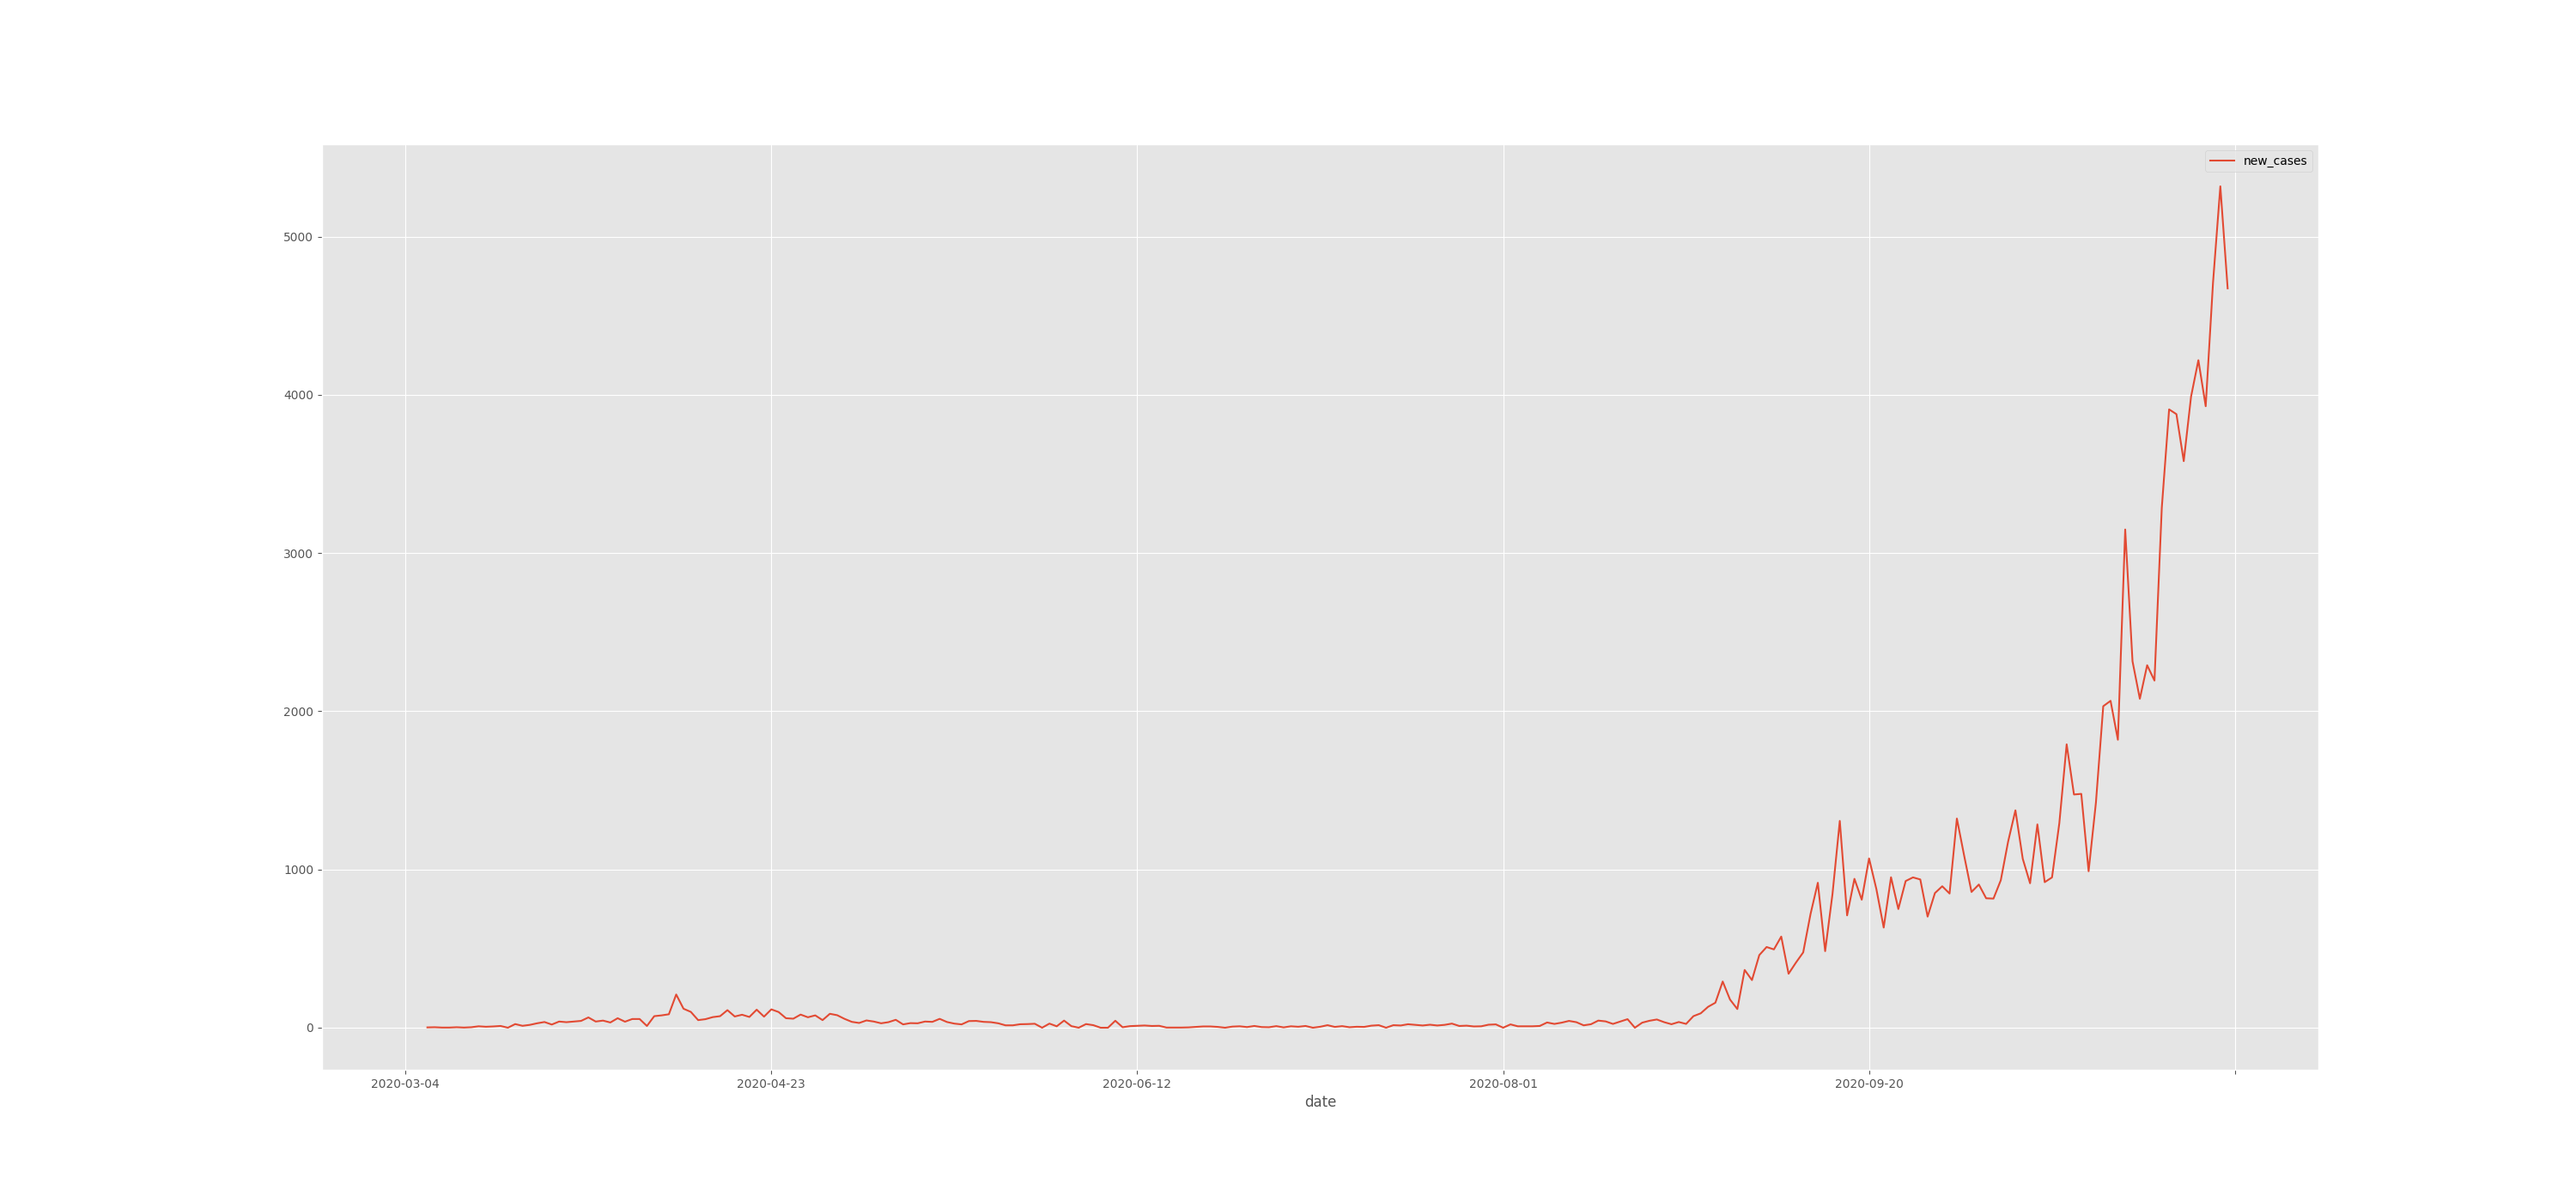
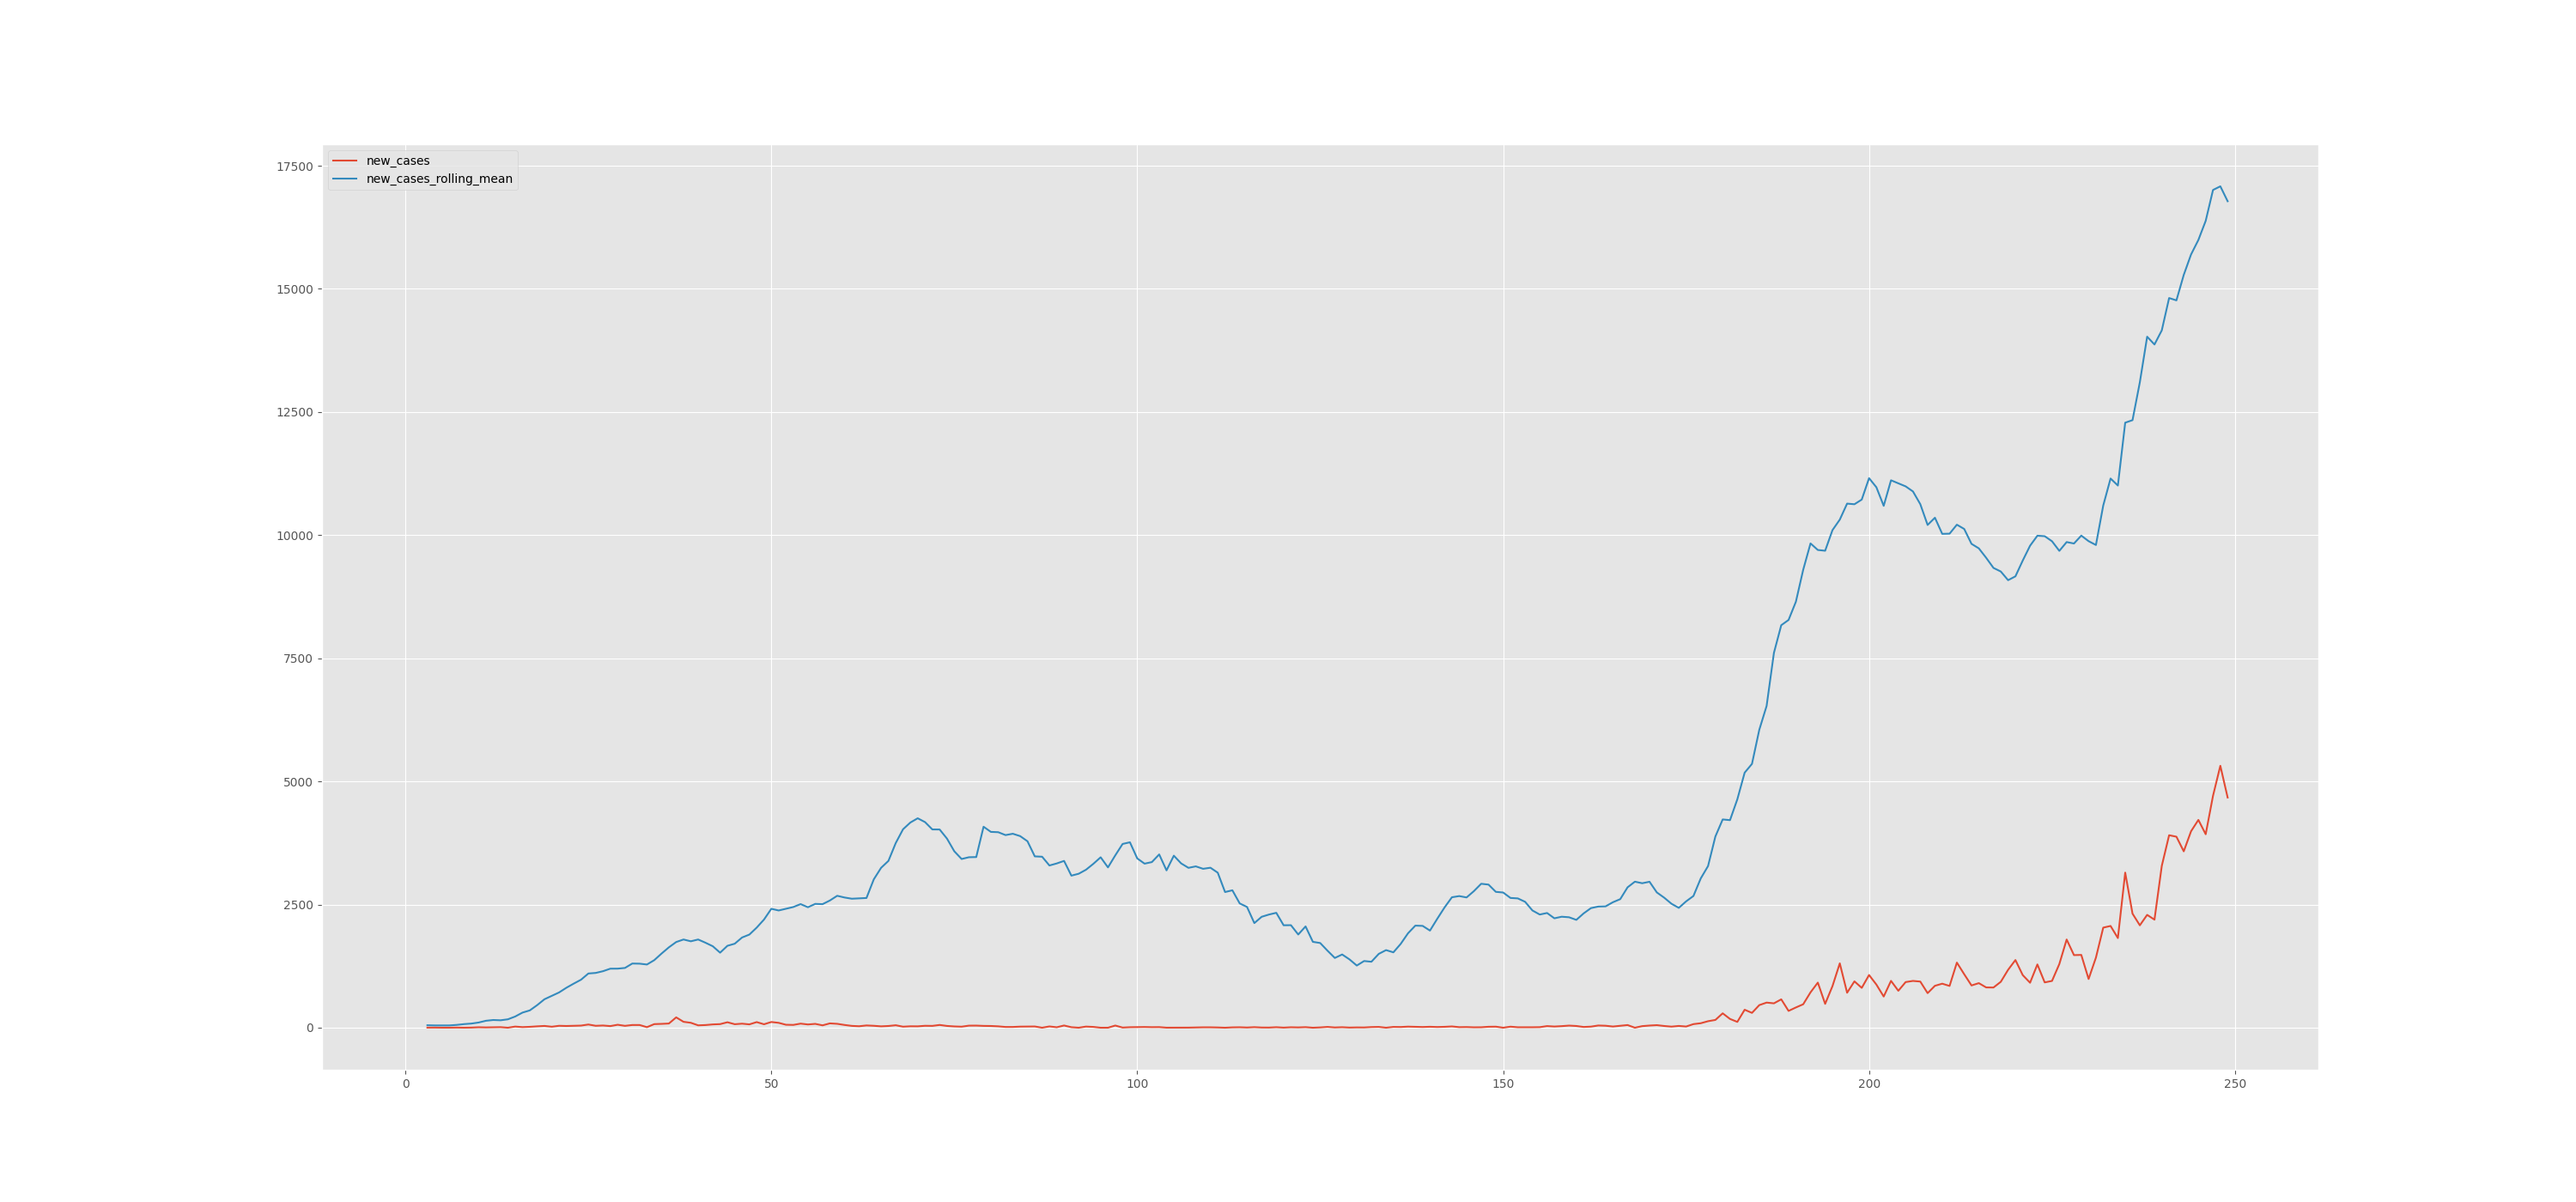
new stuff

diff --git a/charting.py b/charting.py
@@ -42,8 +42,26 @@ pandas_df.plot(ax=ax)
 plt.savefig('new_cases.png', dpi=100)
 
 ######################################################
+##  Rolling charts  #################################
+####################################################
+pandas_df = pd.read_csv('outspark.csv')
+pandas_df = pandas_df[['date','new_tests','new_cases']]
+rollingavg = pandas_df.rolling(7, min_periods=1).mean()
+rollingavg.columns = ['new_cases_rolling_mean','new_tests_rolling_mean']
 
+pandas_df2 = pandas_df[['date','new_tests','new_cases']]
+pandas_df2 = pandas_df2.merge(rollingavg,right_index=True, left_index=True)
+pandas_df2 = pandas_df2[['date','new_tests','new_cases','new_tests_rolling_mean', 'new_cases_rolling_mean']]
+pandas_df2 = pandas_df2[['date','new_cases','new_cases_rolling_mean']]
 
+#plot data
+fig, ax = plt.subplots(figsize=(30,14))
+pandas_df2.plot(ax=ax)
+plt.savefig('new_cases.png', dpi=100)
+
+######################################################
+
+####################################################
 pandas_df = pd.read_csv('outspark.csv')
 pandas_df = pandas_df[['date','new_tests','new_cases']]
 rollingavg = pandas_df.rolling(7, min_periods=1).mean()
@@ -59,5 +77,24 @@ pandas_df2.plot(ax=ax)
 plt.savefig('new_tests_cases.png', dpi=100)
 
 ######################################################
+
+
+####################################################
+pandas_df = pd.read_csv('outspark.csv')
+pandas_df = pandas_df[['date','new_tests','new_cases']]
+rollingavg = pandas_df.rolling(7, min_periods=1).mean()
+rollingavg.columns = ['new_tests_rolling_mean', 'new_cases_rolling_mean']
+
+pandas_df2 = pandas_df[['date','new_tests','new_cases']]
+pandas_df2 = pandas_df2.merge(rollingavg,right_index=True, left_index=True)
+pandas_df2 = pandas_df2[['date','new_tests','new_tests_rolling_mean']]
+
+#plot data
+fig, ax = plt.subplots(figsize=(30,14))
+pandas_df2.plot(ax=ax)
+plt.savefig('new_tests.png', dpi=100)
+
+######################################################
+
 
 print("done stuff charting")

diff --git a/covid.py b/covid.py
@@ -39,3 +39,4 @@ df3.orderBy('date',ascending=False).show()
 pandas_df = df3.toPandas()
 pandas_df
 pandas_df.to_csv(r'outspark.csv')
+spark.stop()
